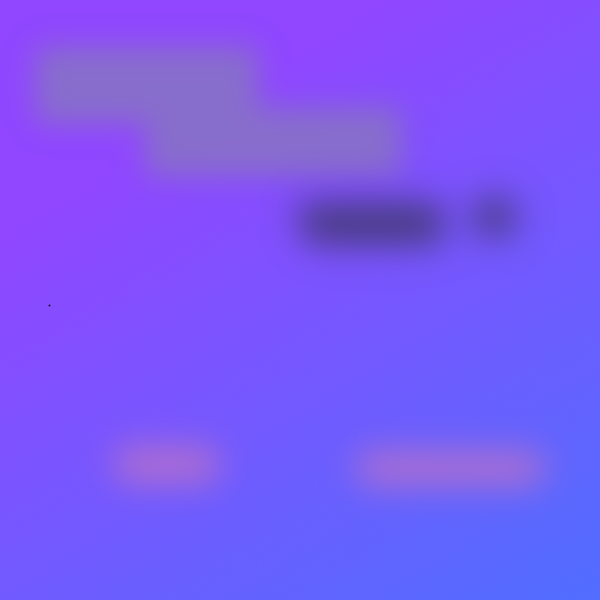
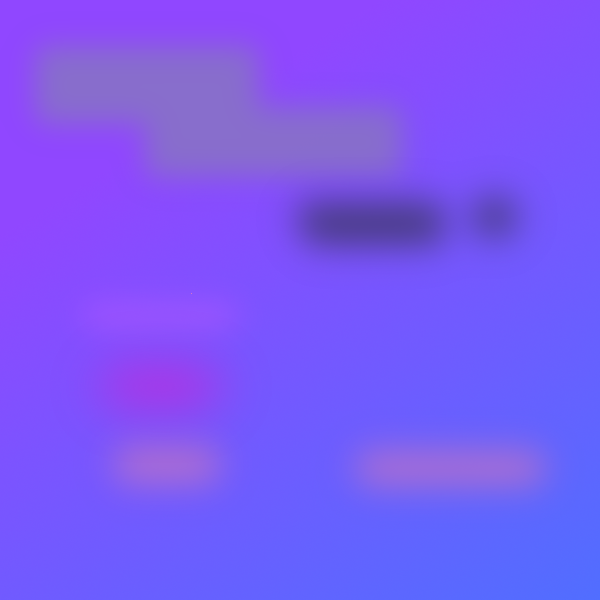
Added quit buttons and end round buttons. Added a practice mode. Added scores to the end screen. Added hotkeys for ending rounds and returning to the menu.

Changed region(s): [[0.18, 0.6, 0.36, 0.69]]

diff --git a/screens/menu_screen.py b/screens/menu_screen.py
@@ -16,26 +16,30 @@ class MenuScreen(Screen):
         pygame.mixer.music.play(-1)
         pygame.display.set_caption('Total Tennis')
         self.buttons = pygame.sprite.Group()
-        self.playduo = Button("./img/playclicked.png", "./img/play.png", 380, 400)
-        self.playai = Button("./img/playclicked.png", "./img/play.png", 100, 400)
+        self.playduo = Button("./img/playclicked.png", "./img/play.png", 380, 500)
+        self.playai = Button("./img/playclicked.png", "./img/play.png", 100, 500)
+        self.playpractice = Button("./img/practiceclicked.png", "./img/practice.png", 100, 360)
         self.plus = Button("./img/plusclicked.png", "./img/plus.png", 520, 140)
         self.minus = Button("./img/minusclicked.png", "./img/minus.png", 430, 140)
-        self.buttons.add(self.playduo, self.playai, self.plus, self.minus)
+        self.buttons.add(self.playduo, self.playai, self.plus, self.minus, self.playpractice)
         self.click_sound = pygame.mixer.Sound("./sounds/pop.wav")
         self.rounds = 3
+        self.close = False
         self.titlefont = pygame.font.Font('./spacemission.otf', 75)
         self.font = pygame.font.Font('./spacemission.otf', 35)
         self.toolfont = pygame.font.Font('./spacemission.otf', 15)
         self.title1 = self.titlefont.render("Total", True, (40, 86, 155))
-        self.title2 = self.titlefont.render("Tennis", True, (40, 86, 155))
+        self.title2 = self.titlefont.render("Tennis", True, (40, 86, 155))  
         self.tooltip = self.toolfont.render("Min: 3 \nMax: 10", True, ((125, 150, 245)))
         self.rounds_text = self.font.render(f"Rounds:   {self.rounds}", True, (125, 150, 245))
         self.ai_text = self.font.render("vs. AI", True, (40, 86, 155))
+        self.practice_text = self.font.render("Practice Mode", True, (40, 86, 155))
         self.player_text = self.font.render("vs. Player", True, (40, 86, 155))
         self.background = Background('./img/background.png')
         self.images = pygame.sprite.Group()
         self.images.add(self.background)
         self.gamestate = None
+        self.practice = False
 
         
     
@@ -49,6 +53,7 @@ class MenuScreen(Screen):
         self.window.blit(self.rounds_text, (300, 200))
         self.window.blit(self.tooltip, (320, 230))
         self.window.blit(self.ai_text, (115, 450))
+        self.window.blit(self.practice_text, (35, 310))
         self.window.blit(self.player_text, (360, 450))
     
     def process_event(self, event):
@@ -61,6 +66,12 @@ class MenuScreen(Screen):
             else:
                 button.unhover()
         if mouse_state[0]:
+            if self.playpractice.check_mouse(mouse_pos):
+                print("Clicked practice")
+                self.playpractice.click_sound()
+                self.gamestate = [1000, True]
+                self.running = False
+                return self.gamestate
             if self.playduo.check_mouse(mouse_pos):
                 print("Clicked duo")
                 self.playduo.click_sound()

diff --git a/game.py b/game.py
@@ -15,31 +15,53 @@ def main():
     window = pygame.display.set_mode((WINDOW_WIDTH, WINDOW_HEIGHT))
     game = MenuScreen(window)
     menu_used = game.loop()
-
     rounds = game.gamestate[0]
     ai = game.gamestate[1]
+    if game.practice:
+        while game.practice:
+            game = GameScreen(window)
+            game.current_score = score
+            game.score1 = game.scorefont.render(f"{score[1]}", True, (125, 150, 245))
+            game.score2 = game.scorefont.render(f"{score[0]}", True, (125, 150, 245))
+            game.ai = ai
+            game
+            result = game.loop()
+            score[0] += game.p1.score
+            score[1] += game.p2.score
+            print("Current Score", score)
+
+
+
     # Value in score array represent goals they have let past.
-    for i in range(0, rounds):
-        game = GameScreen(window)
-        game.current_score = score
-        game.score1 = game.scorefont.render(f"{score[1]}", True, (125, 150, 245))
-        game.score2 = game.scorefont.render(f"{score[0]}", True, (125, 150, 245))
-        game.ai = ai
-        game
-        result = game.loop()
-        score[0] += game.p1.score
-        score[1] += game.p2.score
-        print("Current Score", score)
-    end = EndScreen(window)
-    if score[0] > score[1]:
-        title_string = "Player 2 \nWinner!"
-    elif score[0] < score[1]:
-        title_string = "Player 1 \nWinner!"
-    else:
-        title_string= "TIE!"
-    end.title = end.titlefont.render(title_string, True, (40, 86, 155))
-    end.text = title_string
-    end_result = end.loop()
+    while game.close == False:
+        for i in range(0, rounds):
+            if game.close:
+                break
+            game = GameScreen(window)
+            game.current_score = score
+            game.score1 = game.scorefont.render(f"{score[1]}", True, (125, 150, 245))
+            game.score2 = game.scorefont.render(f"{score[0]}", True, (125, 150, 245))
+            game.ai = ai
+            game
+            result = game.loop()
+            score[0] += game.p1.score
+            score[1] += game.p2.score
+            print("Current Score", score)
+        break
+    
+    if game.close == False:
+        end = EndScreen(window)
+        if score[0] > score[1]:
+            title_string = "Player 2 \nWinner!"
+        elif score[0] < score[1]:
+            title_string = "Player 1 \nWinner!"
+        else:
+            title_string= "TIE!"
+        end.title = end.titlefont.render(title_string, True, (40, 86, 155))
+        end.text = title_string
+        end.score1 = end.scorefont.render(f"P1\nScore: {score[1]}", True, (125, 150, 245))
+        end.score2 = end.scorefont.render(f"P2\nScore: {score[0]}", True, (125, 150, 245))
+        end_result = end.loop()
 
 
 

diff --git a/screens/game_screen.py b/screens/game_screen.py
@@ -17,6 +17,7 @@ class GameScreen(Screen):
         self.lost = False
         self.current_score = [0, 0]
         self.ai = True
+        self.close = False
         self.p1 = Paddle("left")
         self.p2 = Paddle("right")
         self.paddles = pygame.sprite.Group()
@@ -25,9 +26,10 @@ class GameScreen(Screen):
         pygame.mixer.music.play(-1)
         self.bounce = pygame.mixer.Sound("./sounds/pop.wav")
         self.over = pygame.mixer.Sound("./sounds/lose.wav")
-        self.endround = Button("./img/roundclicked.png", "./img/round.png", 235, 400)
+        self.quitrounds = Button("./img/quitclicked.png", "./img/quit.png", 260, 400)
+        self.endround = Button("./img/roundclicked.png", "./img/round.png", 235, 470)
         self.buttons = pygame.sprite.Group()
-        self.buttons.add(self.endround)
+        self.buttons.add(self.endround, self.quitrounds)
         self.background = Background('./img/gamebg.png')
         self.images = pygame.sprite.Group()
         self.images.add(self.background)
@@ -108,6 +110,15 @@ class GameScreen(Screen):
             self.round_end()
             self.buttons.draw(self.window)
             pygame.event.pump()
+            if pygame.key.get_pressed()[pygame.K_SPACE]:
+                self.endround.click_sound()
+                print("End round via spacebar")
+                self.running=False
+            if pygame.key.get_pressed()[pygame.K_ESCAPE]:
+                self.quitrounds.click_sound()
+                self.close = True
+                print("End round via escape")
+                self.running=False
             mouse_state = pygame.mouse.get_pressed()
             mouse_pos = pygame.mouse.get_pos()
             for button in self.buttons:
@@ -119,6 +130,11 @@ class GameScreen(Screen):
                 if self.endround.check_mouse(mouse_pos):
                     self.endround.click_sound()
                     print("Ending Round")
+                    self.running = False
+                if self.quitrounds.check_mouse(mouse_pos):
+                    self.quitrounds.click_sound()
+                    print("Ending Round")
+                    self.close = True
                     self.running = False
             
             if self.ball.rect.x < (LIMITS["right"] // 2):

diff --git a/screens/end_screen.py b/screens/end_screen.py
@@ -20,6 +20,9 @@ class EndScreen(Screen):
         pygame.mixer.music.play(-1)
         self.titlefont = pygame.font.Font('./spacemission.otf', 60)
         self.title = self.titlefont.render("error", True, (40, 86, 155))
+        self.scorefont = pygame.font.Font('./spacemission.otf', 30)
+        self.score1 = self.scorefont.render("Player 1: 0", True, (125, 150, 245))
+        self.score2 = self.scorefont.render("Player 2: 0", True, (125, 150, 245))
         
     def process_loop(self):
         pygame.event.pump()
@@ -27,6 +30,8 @@ class EndScreen(Screen):
         mouse_pos = pygame.mouse.get_pos()
         self.images.draw(self.window)
         self.buttons.draw(self.window)
+        self.window.blit(self.score1, (50, 50))
+        self.window.blit(self.score2, (390, 50))
         print(self.text)
         if self.text == "TIE!":
             self.window.blit(self.title, (250, 200))
@@ -43,6 +48,10 @@ class EndScreen(Screen):
                 print("Clicked duo")
                 self.endgame.click_sound()
                 self.running = False
-    
+        if pygame.key.get_pressed()[pygame.K_ESCAPE]:
+            self.endgame.click_sound()
+            print("End round via spacebar")
+            self.running=False
+        
     def process_event(self, event):
         pass

diff --git a/screens/base_screen.py b/screens/base_screen.py
@@ -30,7 +30,7 @@ class Screen:
                 if event.type == pygame.QUIT:
                     pygame.quit()
                 elif event.type == pygame.KEYDOWN and event.key == pygame.K_ESCAPE:
-                    pygame.quit()
+                    pass
                 else:
                     # Override this method to customize your screens!
                     self.process_event(event)
